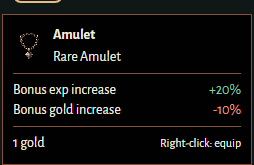
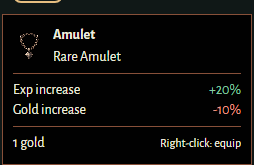
fix: simplify item tooltip stat labels (#307)

Changed region(s): [[0.0276, 0.6061, 0.4961, 0.7273], [0.0551, 0.5152, 0.4685, 0.6061]]

diff --git a/packages/ui/tests/ui.spec.ts b/packages/ui/tests/ui.spec.ts
@@ -1090,18 +1090,31 @@ test('item tooltips show quantity only for stackable items, including stacks of 
   await page.screenshot({ path: 'test-results/item-tooltip-unstackable.png' });
 });
 
+test('repeated stat labels open only their own explanation', async ({ page }) => {
+  await page.goto(story('components-backpack--repeated-stats'));
+  await page.getByRole('button', { name: 'Use Amulet', exact: true }).focus();
+  await expect(page.getByRole('button', { name: 'Power: 5', exact: true })).toBeVisible();
+  await page.keyboard.press('Tab');
+  await expect(page.getByText('Base weapon power.', { exact: true })).toBeVisible();
+  await expect(page.getByText('Additional rolled power.', { exact: true })).not.toBeVisible();
+  await page.keyboard.press('Tab');
+  await expect(page.getByText('Additional rolled power.', { exact: true })).toBeVisible();
+  await expect(page.getByText('Base weapon power.', { exact: true })).not.toBeVisible();
+});
+
 test('unequipped gear shows compact signed gains and losses with keyboard access', async ({
   page,
 }) => {
   await page.goto(story('components-backpack--comparison'));
   await page.getByRole('button', { name: 'Use Amulet', exact: true }).focus();
   const tooltip = page.getByRole('tooltip');
+  await expect(tooltip).not.toContainText('Bonus');
   await expect(tooltip).not.toContainText('vs equipped');
   await expect(tooltip).not.toContainText('Armor');
-  await expect(tooltip.getByText('Bonus exp increase', { exact: true })).toHaveCount(1);
+  await expect(tooltip.getByText('Exp increase', { exact: true })).toHaveCount(1);
   await expect(tooltip.getByText('+20%', { exact: true })).toHaveCount(1);
-  await expect(tooltip).toContainText('Bonus exp increase+20%');
-  await expect(tooltip).toContainText('Bonus gold increase-10%');
+  await expect(tooltip).toContainText('Exp increase+20%');
+  await expect(tooltip).toContainText('Gold increase-10%');
   await expect(tooltip.getByText('+20%', { exact: true }).last()).toHaveCSS(
     'color',
     'rgb(131, 203, 163)',
@@ -1114,6 +1127,6 @@ test('unequipped gear shows compact signed gains and losses with keyboard access
   await page.goto(story('components-backpack--same-stats'));
   await page.getByRole('button', { name: 'Use Amulet', exact: true }).focus();
   await expect(page.getByRole('tooltip')).toContainText('Same stats');
-  await expect(page.getByRole('tooltip')).not.toContainText('Bonus exp increase');
+  await expect(page.getByRole('tooltip')).not.toContainText('Exp increase');
   await expect(page.getByRole('tooltip')).not.toContainText('vs equipped');
 });

diff --git a/tests/item-tooltips.spec.ts b/tests/item-tooltips.spec.ts
@@ -23,9 +23,10 @@ test('backpack item tooltips share weapon details and compact resource cards', a
   await page.keyboard.press('i');
   const backpack = page.getByRole('region', { name: 'Your backpack' });
   await backpack.getByRole('button', { name: 'Use Amulet', exact: true }).hover();
-  const comparison = page.getByRole('tooltip').filter({ hasText: 'vs equipped Amulet' });
-  await expect(comparison).toContainText('Bonus exp increase+20%');
-  await expect(comparison).toContainText('Bonus gold increase-10%');
+  const comparison = page.getByRole('tooltip').filter({ hasText: 'Amulet' });
+  await expect(comparison).toContainText('Exp increase+20%');
+  await expect(comparison).toContainText('Gold increase-10%');
+  await expect(comparison).not.toContainText('Bonus');
   for (const [name, quantity] of [
     ['Log', 12],
     ['Flowering herb', 8],
@@ -47,16 +48,8 @@ test('backpack item tooltips share weapon details and compact resource cards', a
   await sword.focus();
   const tooltip = page.getByRole('tooltip').filter({ hasText: "Warrior's sword" });
   await expect(tooltip).toContainText('Right-click: equip');
-  await expect(tooltip.getByRole('button', { name: 'Power: 5', exact: true })).toBeVisible();
-  const range = tooltip.getByRole('button', { name: 'Range: 75 units', exact: true });
-  await page.keyboard.press('Tab');
-  await expect(tooltip.getByRole('button', { name: 'Power: 5', exact: true })).toBeFocused();
-  await page.keyboard.press('Tab');
-  await expect(range).toBeFocused();
-  await expect(page.getByRole('tooltip').last()).toContainText('Attack range: 75 units');
-  await page.keyboard.press('Shift+Tab');
-  await page.keyboard.press('Shift+Tab');
-  await expect(sword).toBeFocused();
+  await expect(tooltip).toContainText('Same stats');
+  await expect(tooltip.getByRole('button', { name: 'Power: 5', exact: true })).toHaveCount(0);
   await page.keyboard.press('Escape');
   await expect(page.getByRole('dialog', { name: 'Inventory', exact: true })).toHaveCount(0);
 });

diff --git a/packages/ui/src/components/ItemTooltip.tsx b/packages/ui/src/components/ItemTooltip.tsx
@@ -56,7 +56,7 @@ export function ItemTooltip({
   onBack?: () => void;
 }) {
   const root = useRef<HTMLDivElement>(null);
-  const [openStat, setOpenStat] = useState<string | null>(null);
+  const [openStat, setOpenStat] = useState<number | null>(null);
   return (
     <ItemTooltipContentStyled ref={root}>
       <Stack direction='row' spacing={1} sx={{ alignItems: 'center' }} className='item-header'>
@@ -99,9 +99,9 @@ export function ItemTooltip({
         .filter((stat) => !item.comparison || !stat.value)
         .map((stat, index) => (
           <GearTooltipStyled
-            key={stat.label}
-            open={openStat === stat.label}
-            onOpen={() => setOpenStat(stat.label)}
+            key={`${stat.label}-${index}`}
+            open={openStat === index}
+            onOpen={() => setOpenStat(index)}
             onClose={() => setOpenStat(null)}
             describeChild
             placement='bottom'
@@ -115,7 +115,7 @@ export function ItemTooltip({
             <ItemStatStyled
               aria-label={`${stat.label}${stat.value ? `: ${stat.value}` : ''}`}
               data-equipment-badge={stat.icon}
-              onClick={() => setOpenStat(stat.label)}
+              onClick={() => setOpenStat(index)}
               onKeyDown={(event) => {
                 if (index === 0 && event.key === 'Tab' && event.shiftKey && onBack) {
                   event.preventDefault();
@@ -146,9 +146,9 @@ export function ItemTooltip({
       {item.comparison && (
         <Box>
           {item.comparison.rows.length ? (
-            item.comparison.rows.map((row) => (
+            item.comparison.rows.map((row, index) => (
               <Stack
-                key={row.label}
+                key={`${row.label}-${index}`}
                 direction='row'
                 spacing={1}
                 sx={{ justifyContent: 'space-between' }}

diff --git a/packages/ui/src/stories/Backpack.stories.tsx b/packages/ui/src/stories/Backpack.stories.tsx
@@ -54,7 +54,7 @@ export const Comparison: StoryObj<typeof meta> = {
         primary: { label: 'Armor', value: '1' },
         stats: [
           {
-            label: 'Bonus exp increase',
+            label: 'Exp increase',
             icon: 'magic',
             value: '+20%',
             explanation: 'Adds to party drops.',
@@ -62,8 +62,8 @@ export const Comparison: StoryObj<typeof meta> = {
         ],
         comparison: {
           rows: [
-            { label: 'Bonus exp increase', value: '+20%', improved: true },
-            { label: 'Bonus gold increase', value: '-10%', improved: false },
+            { label: 'Exp increase', value: '+20%', improved: true },
+            { label: 'Gold increase', value: '-10%', improved: false },
           ],
         },
       },
@@ -73,6 +73,20 @@ export const Comparison: StoryObj<typeof meta> = {
 export const SameStats: StoryObj<typeof meta> = {
   args: {
     items: [{ ...Comparison.args!.items![0], comparison: { rows: [] } }],
+  },
+};
+export const RepeatedStats: StoryObj<typeof meta> = {
+  args: {
+    items: [
+      {
+        ...Comparison.args!.items![0],
+        comparison: undefined,
+        stats: [
+          { label: 'Power', icon: 'power', value: '5', explanation: 'Base weapon power.' },
+          { label: 'Power', icon: 'magic', value: '+2', explanation: 'Additional rolled power.' },
+        ],
+      },
+    ],
   },
 };
 export const RestrictedGear: StoryObj<typeof meta> = {

diff --git a/tests/item-comparison.test.ts b/tests/item-comparison.test.ts
@@ -23,8 +23,8 @@ test('item comparison includes gained and lost bonuses without unchanged base st
   });
   assert.deepEqual(comparison, {
     rows: [
-      { label: 'Bonus exp increase', value: '+20%', improved: true },
-      { label: 'Bonus gold increase', value: '-10%', improved: false },
+      { label: 'Exp increase', value: '+20%', improved: true },
+      { label: 'Gold increase', value: '-10%', improved: false },
     ],
   });
 });
@@ -34,8 +34,8 @@ test('empty slots, equal stats and flat bonuses retain their units', () => {
     itemComparison({ ...item, stats: { armor: 2, moreProjectiles: 1 } }, { equipment: {} })?.rows,
     [
       { label: 'Armor', value: '+1', improved: true },
-      { label: 'Bonus armor', value: '+2', improved: true },
-      { label: 'Bonus more projectiles', value: '+1', improved: true },
+      { label: 'Armor', value: '+2', improved: true },
+      { label: 'More projectiles', value: '+1', improved: true },
     ],
   );
   assert.deepEqual(

diff --git a/tests/dot-speed.spec.ts b/tests/dot-speed.spec.ts
@@ -19,7 +19,8 @@ test('DOT Speed gear equips, shows its bonus and survives reload', async ({ page
   const inventory = page.getByRole('dialog', { name: 'Inventory', exact: true });
   const item = inventory.locator('[data-backpack-item=dot-speed-sword]');
   await item.hover();
-  await expect(page.getByRole('tooltip').first()).toContainText('Bonus DOT Speed');
+  await expect(page.getByRole('tooltip').first()).toContainText('DOT Speed');
+  await expect(page.getByRole('tooltip').first()).not.toContainText('Bonus');
   await expect(page.getByRole('tooltip').first()).toContainText('+2%');
   await item.click({ button: 'right' });
   await expect.poll(() => player.equipmentItems?.weapon?.stats?.dotSpeed).toBe(2);

diff --git a/packages/client/src/item-comparison.ts b/packages/client/src/item-comparison.ts
@@ -48,8 +48,11 @@ export function itemComparison(
       rows.push({
         label: bonus
           ? stat === ItemStat.DotSpeed
-            ? 'Bonus DOT Speed'
-            : `Bonus ${stat.replace(/([A-Z])/g, ' $1').toLowerCase()}`
+            ? 'DOT Speed'
+            : `${stat[0].toUpperCase()}${stat
+                .slice(1)
+                .replace(/([A-Z])/g, ' $1')
+                .toLowerCase()}`
           : stat === 'manualRange'
             ? 'Range'
             : (metadata?.label ?? stat),

diff --git a/packages/client/src/equipment-view.tsx b/packages/client/src/equipment-view.tsx
@@ -173,8 +173,8 @@ function rolledBadges(item?: Pick<BackpackItem, 'stats'>): EquipmentBadgeView[] 
   return Object.entries(item?.stats ?? {}).map(([stat, value]) => {
     const label =
       stat === ItemStat.DotSpeed
-        ? 'Bonus DOT Speed'
-        : `Bonus ${stat.replace(/([A-Z])/g, ' $1').toLowerCase()}`;
+        ? 'DOT Speed'
+        : capitalize(stat.replace(/([A-Z])/g, ' $1').toLowerCase());
     const flat =
       stat === ItemStat.Power ||
       stat === ItemStat.Armor ||

diff --git a/docs/specs/interface-and-audio.md b/docs/specs/interface-and-audio.md
@@ -256,7 +256,7 @@ stats and rolled bonuses, including bonuses absent from the candidate. Equal
 items show “Same stats”; empty slots compare against zero. This also applies in
 trading and storage. Comparison replaces the standalone primary and bonus stat
 rows and has no heading; item identity, effect descriptions, price and action
-remain visible. Consumables and class-incompatible gear omit comparison.
+remain visible. Stat labels omit the “Bonus” prefix in item details and comparisons. Consumables and class-incompatible gear omit comparison.
 
 ![Verified desktop Storybook item comparison](../images/item-stat-comparison.png)
 
